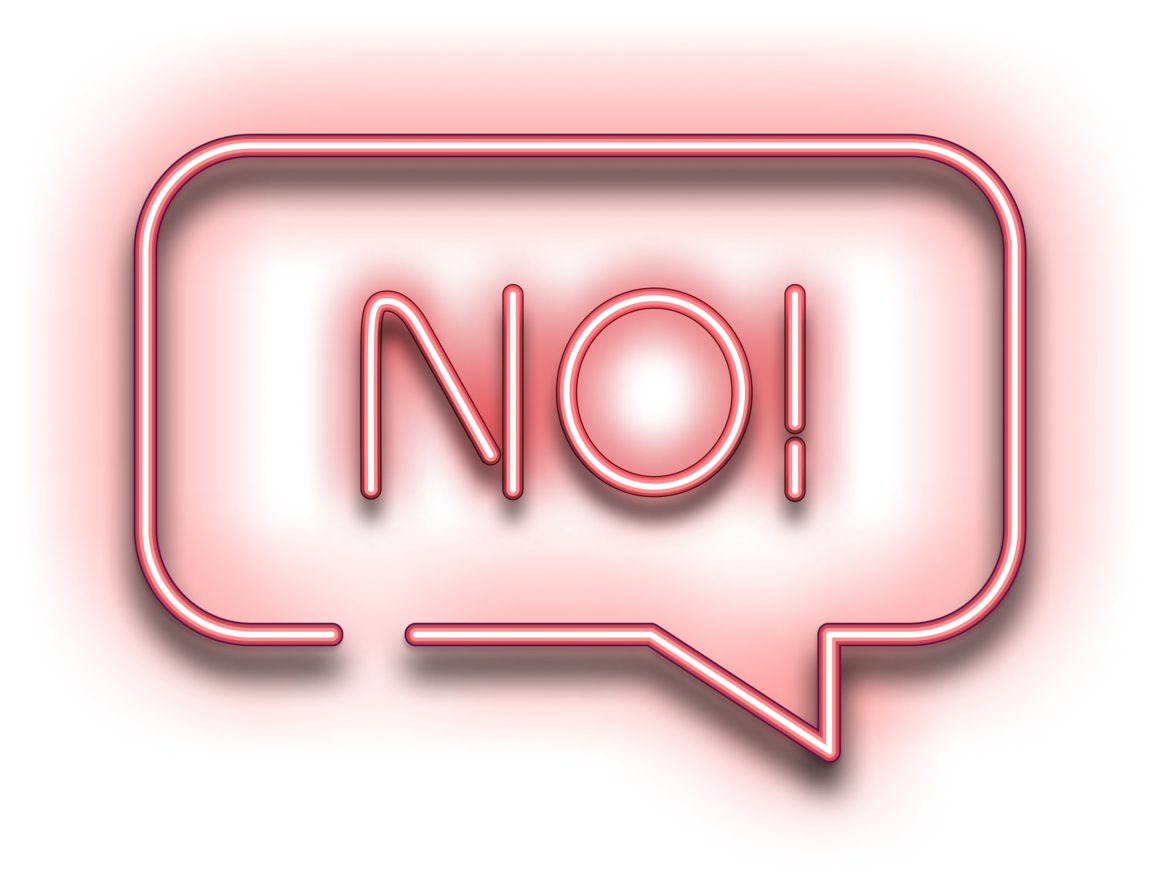
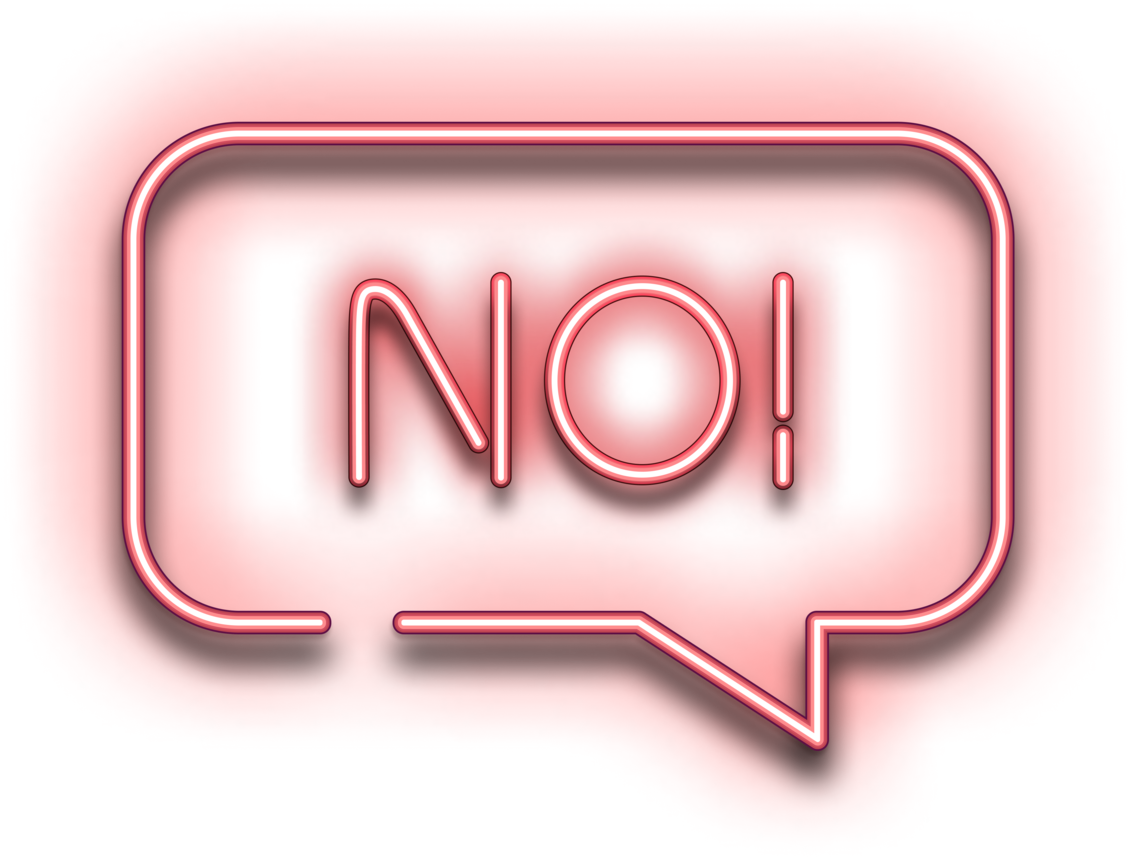
style: update yes no button size

Changed region(s): [[0.0929, 0.1211, 0.9292, 0.9383], [0.2788, 0.3027, 0.7124, 0.6054]]

diff --git a/src/pages/question/question.styles.ts b/src/pages/question/question.styles.ts
@@ -25,7 +25,7 @@ export const QuestionCategoryProgress = styled.div`
 
 export const QuestionAnswerBooleanAnswer = styled.img<{ selected: boolean }>`
   display: block;
-  width: calc(var(--vw) * (20 / 100));
+  width: 62.40625rem;
   ${({ selected }) => {
     if (selected) {
       return css`
@@ -36,10 +36,11 @@ export const QuestionAnswerBooleanAnswer = styled.img<{ selected: boolean }>`
 `;
 
 export const QuestionAnswerBoolean = styled.div<{ disabled: boolean }>`
-  margin-top: calc(var(--vh) * (5 / 100));
   display: flex;
   align-items: center;
-  gap: calc(var(--vw) * (5 / 100));
+  margin-left: -7.125rem;
+  margin-top: -1.125rem;
+  gap: 2.5625rem;
 
   ${({ disabled }) => {
     if (disabled) {
@@ -103,13 +104,16 @@ export const QuestionAnswers = styled.div`
 `;
 
 export const QuestionProgress = styled.div`
-  font-size: calc(var(--vh) * (2.75 / 100));
+  font-size: 4.6875rem;
+  line-height: 6.0625rem;
+  letter-spacing: 0.75rem;
   color: #00e7ed;
 `;
 
 export const QuestionTitle = styled.h3`
-  font-size: calc(var(--vh) * (6 / 100));
-  line-height: 1.5em;
+  font-size: 9.375rem;
+  line-height: 12.079375rem;
+  letter-spacing: 0.75rem;
 `;
 
 export const QuestionContainer = styled.div`
